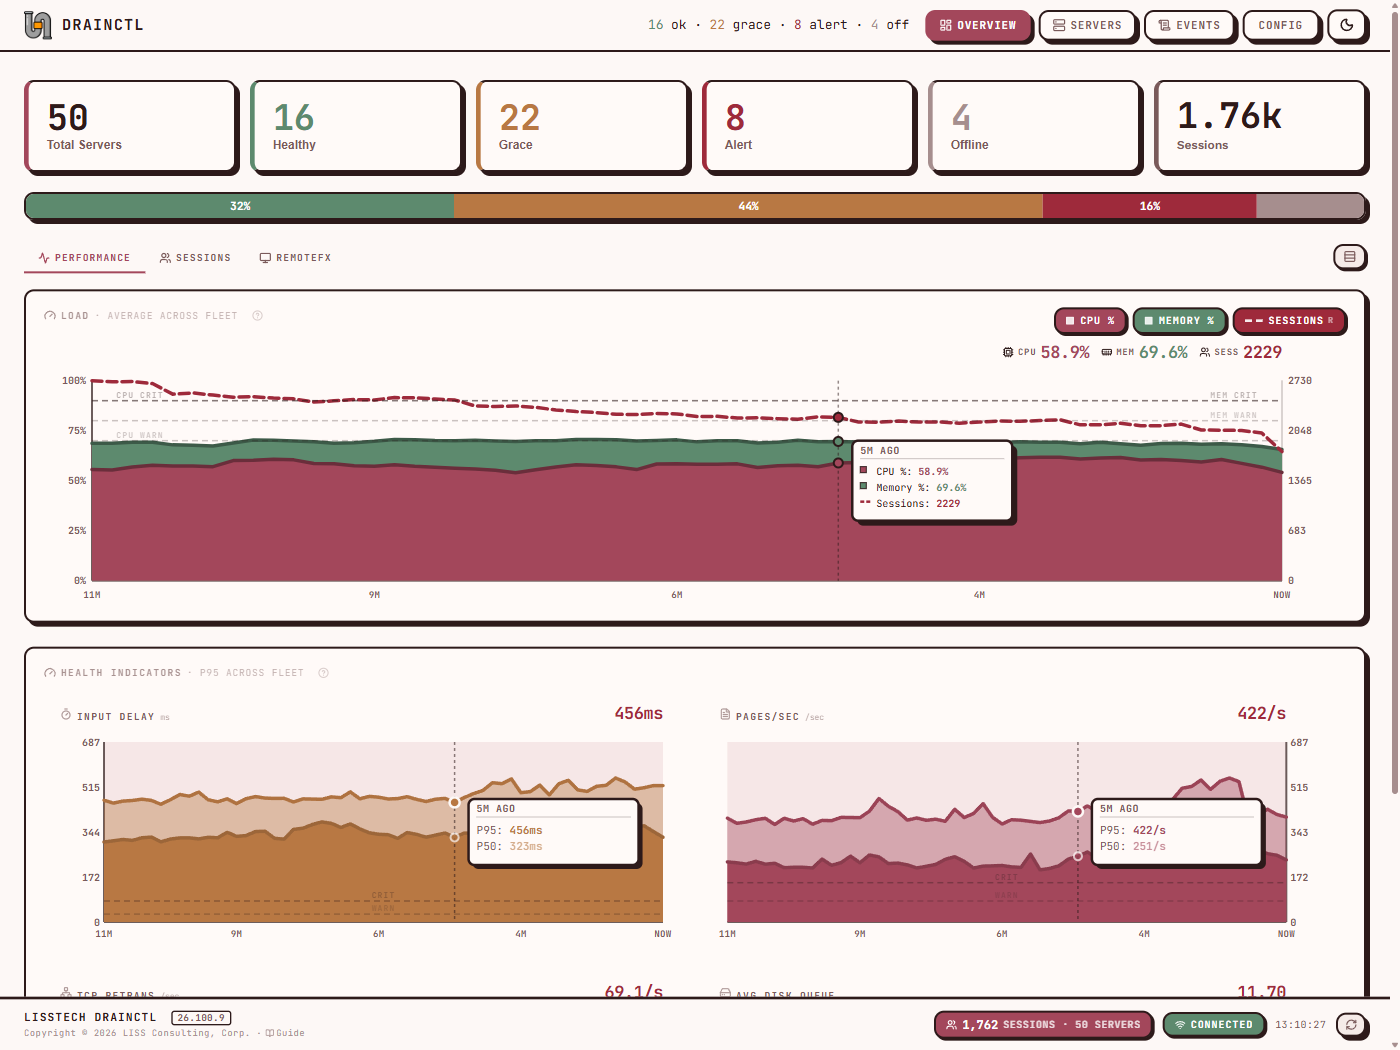
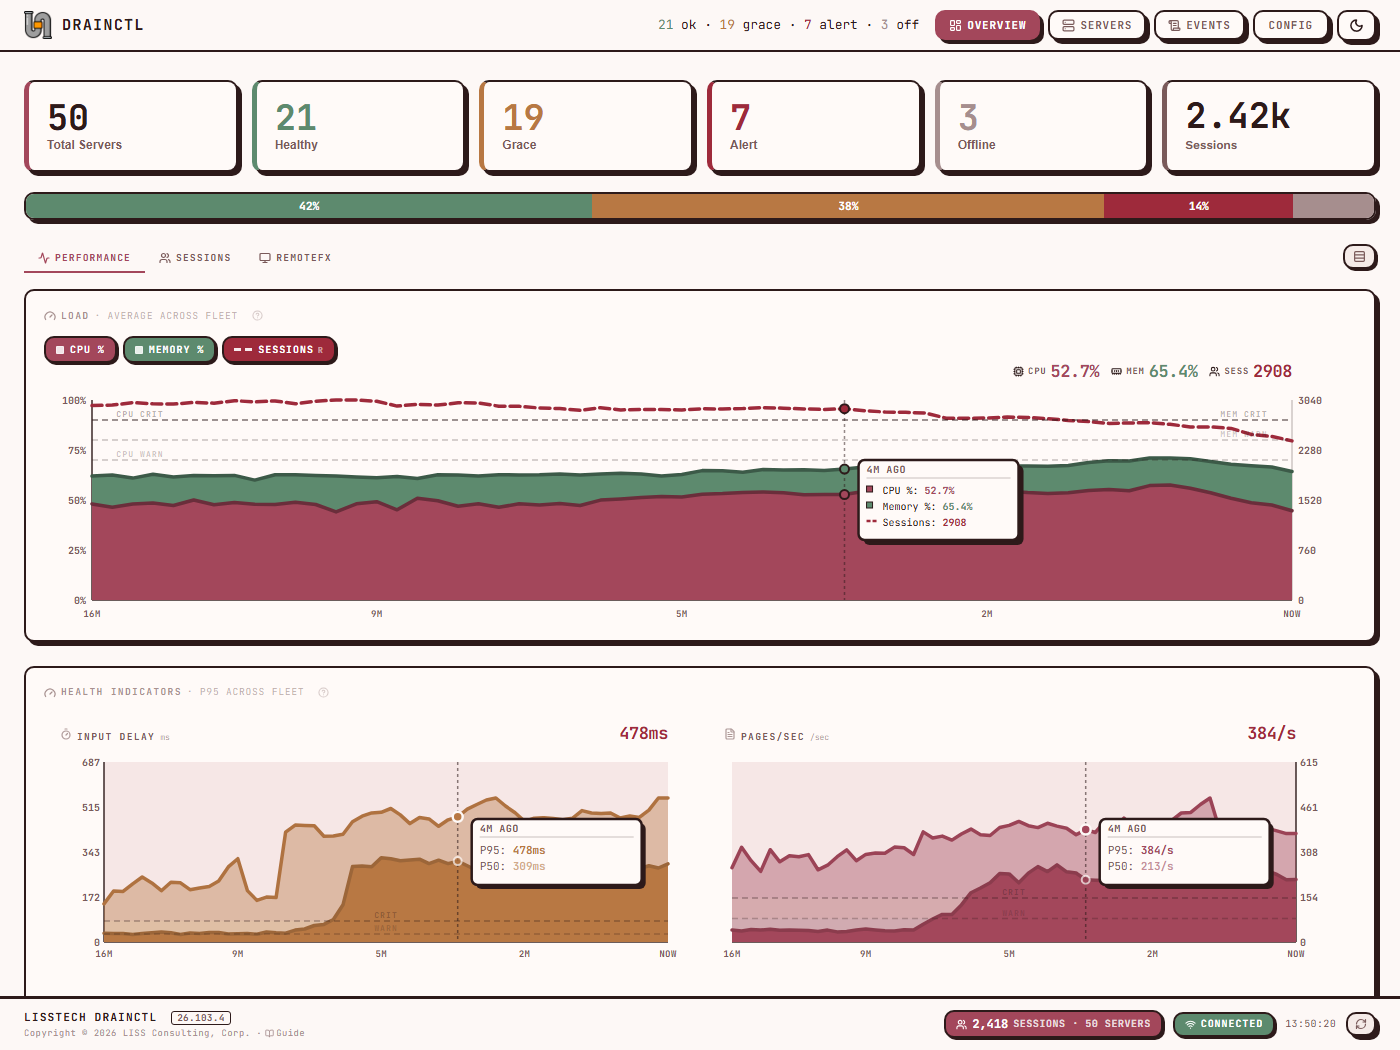
feat(docs): SEO improvements, heading hierarchy, metric button relayout, version bump
SEO (index.html + guide.html):
- Title tags rewritten for target keywords: "Remote Desktop Services monitoring",
  "Managed Service Provider", "MSP", "RDSH"
- Meta descriptions trimmed to <160 chars with keyword-rich copy
- Canonical URLs added to both pages
- robots: index, follow added to both pages
- Open Graph + Twitter Card titles/descriptions aligned with page title
- SoftwareApplication JSON-LD structured data added to index.html
- Section <div class="section-title"> → <h2> for correct h1→h2→h3 hierarchy
- Logo alt text fixed (nav + hero, both files)
- sitemap.xml created

Dashboard:
- Overview metric toggle buttons moved below label/desc (breathing room)
- mock-api.js version bumped 26.100.9 → 26.103.4
- Overview light + dark screenshots retaken with updated layout

diff --git a/docs/index.html b/docs/index.html
@@ -5,22 +5,24 @@
         <meta name="viewport" content="width=device-width, initial-scale=1.0" />
         <link rel="icon" href="favicon.ico" type="image/x-icon" />
         <link rel="apple-touch-icon" href="apple-touch-icon.png" />
-        <title>DrainCtl — Remote Desktop Services Drain Mode & Performance Monitor</title>
+        <title>DrainCtl — Remote Desktop Services Monitoring for MSPs & RDSH Admins</title>
         <meta
             name="description"
-            content="Real-time drain mode monitoring, session tracking, and performance alerting for Windows Remote Desktop Services (RDS/RDSH). Know who disabled connections, track active sessions, monitor CPU and input delay — with a centralized dashboard for your entire farm."
+            content="Remote Desktop Services monitoring for MSPs and RDSH admins. Track drain mode, sessions, CPU, and input delay across your farm — instant detection, change attribution, centralized dashboard."
         />
         <meta
             name="keywords"
-            content="Remote Desktop Services, RDSH, drain mode, session monitor, RDS monitoring, Windows Server, performance monitoring, session host, terminal services"
+            content="Remote Desktop Services monitoring, RDS drain mode, RDSH monitoring, managed service provider RDS, MSP monitoring tool, session host monitor, Windows Server RDS, terminal services monitoring, drain mode alerting"
         />
+        <meta name="robots" content="index, follow" />
+        <link rel="canonical" href="https://lissconsulting.github.io/LISSTech.DrainCtl/" />
 
         <!-- Open Graph -->
         <meta property="og:type" content="website" />
-        <meta property="og:title" content="DrainCtl — Remote Desktop Services Monitor" />
+        <meta property="og:title" content="DrainCtl — Remote Desktop Services Monitoring for MSPs & RDSH Admins" />
         <meta
             property="og:description"
-            content="Real-time drain mode, session, and performance monitoring for your entire RDS farm. Instant detection, change attribution, 12 alert triggers, centralized dashboard."
+            content="Remote Desktop Services monitoring for MSPs and RDSH admins. Track drain mode, sessions, CPU, and input delay — instant detection, change attribution, centralized dashboard."
         />
         <meta property="og:url" content="https://lissconsulting.github.io/LISSTech.DrainCtl/" />
         <meta
@@ -31,15 +33,36 @@
 
         <!-- Twitter Card -->
         <meta name="twitter:card" content="summary_large_image" />
-        <meta name="twitter:title" content="DrainCtl — Remote Desktop Services Monitor" />
+        <meta name="twitter:title" content="DrainCtl — Remote Desktop Services Monitoring for MSPs & RDSH Admins" />
         <meta
             name="twitter:description"
-            content="Real-time drain mode, session, and performance monitoring for your entire RDS farm. One service, one dashboard, instant alerts."
+            content="Remote Desktop Services monitoring for MSPs and RDSH admins. Track drain mode, sessions, CPU, and input delay — instant detection, change attribution, centralized dashboard."
         />
         <meta
             name="twitter:image"
             content="https://lissconsulting.github.io/LISSTech.DrainCtl/dashboard-screenshot.png"
         />
+
+        <!-- Structured Data -->
+        <script type="application/ld+json">
+        {
+            "@context": "https://schema.org",
+            "@type": "SoftwareApplication",
+            "name": "DrainCtl",
+            "applicationCategory": "BusinessApplication",
+            "operatingSystem": "Windows Server",
+            "description": "Remote Desktop Services monitoring for MSPs and RDSH admins. Real-time drain mode detection, session tracking, CPU and input delay alerting — centralized dashboard for your entire farm.",
+            "url": "https://lissconsulting.github.io/LISSTech.DrainCtl/",
+            "screenshot": "https://lissconsulting.github.io/LISSTech.DrainCtl/dashboard-screenshot.png",
+            "offers": { "@type": "Offer", "price": "0", "priceCurrency": "USD" },
+            "publisher": {
+                "@type": "Organization",
+                "name": "LISS Technologies",
+                "legalName": "LISS Consulting, Corp.",
+                "url": "https://lissconsulting.github.io/LISSTech.DrainCtl/"
+            }
+        }
+        </script>
         <link rel="preconnect" href="https://fonts.googleapis.com" />
         <link rel="preconnect" href="https://fonts.gstatic.com" crossorigin />
         <link
@@ -1135,7 +1158,7 @@
                 <a href="#" class="nav-brand"
                     ><img
                         src="logo.png"
-                        alt=""
+                        alt="DrainCtl logo"
                         width="24"
                         height="24"
                         style="vertical-align: middle; margin-right: 6px"
@@ -1167,7 +1190,7 @@
         <!-- Hero -->
         <section class="hero">
             <div class="wrap">
-                <img src="logo.png" alt="" width="72" height="72" style="display: block; margin: 0 auto 12px" />
+                <img src="logo.png" alt="DrainCtl" width="72" height="72" style="display: block; margin: 0 auto 12px" />
                 <h1>Remote Desktop Services<br />monitoring that <em>just works.</em></h1>
                 <p class="hero-sub">
                     DrainCtl watches every session host in your RDS farm. Drain mode changes, active sessions, CPU,
@@ -1246,7 +1269,7 @@
         <section class="section section--bordered" id="why">
             <div class="wrap">
                 <div class="section-label">Why DrainCtl</div>
-                <div class="section-title">PowerShell scripts don't call you at 2&nbsp;AM.</div>
+                <h2 class="section-title">PowerShell scripts don't call you at 2&nbsp;AM.</h2>
                 <div class="section-desc">
                     Every RDSH admin has been there: something's wrong, users are calling, and you're
                     RDP-ing into servers one at a time to find out who put what into drain mode and when.
@@ -1281,7 +1304,7 @@
         <section class="section" id="features">
             <div class="wrap">
                 <div class="section-label">Capabilities</div>
-                <div class="section-title">Complete visibility for your RDS farm.</div>
+                <h2 class="section-title">Complete visibility for your RDS farm.</h2>
                 <div class="section-desc">
                     Drain mode, sessions, CPU, memory, input delay &mdash; one service monitors everything. One
                     dashboard shows it all. Alerts reach you by webhook, ntfy, or email before users notice.
@@ -1370,7 +1393,7 @@
         <section class="section section--shaded" id="quickstart">
             <div class="wrap">
                 <div class="section-label">Quick Start</div>
-                <div class="section-title">From download to monitoring in under&nbsp;3&nbsp;minutes.</div>
+                <h2 class="section-title">From download to monitoring in under&nbsp;3&nbsp;minutes.</h2>
                 <div class="section-desc">Three steps on the dashboard server. Session hosts discover it automatically via DNS SRV &mdash; no per-machine config.</div>
                 <div class="quickstart-steps">
                     <div class="qs-step">
@@ -1408,7 +1431,7 @@
         <section class="section" id="how">
             <div class="wrap">
                 <div class="section-label">Architecture</div>
-                <div class="section-title">Five layers. One service.</div>
+                <h2 class="section-title">Five layers. One service.</h2>
                 <div class="section-desc">
                     The service triangulates registry notifications, event log subscriptions, performance counters, and
                     safety-net polling &mdash; then routes results to the dashboard, notifications, and dual-sink
@@ -1455,7 +1478,7 @@
         <section class="section section--bordered" id="new">
             <div class="wrap">
                 <div class="section-label">Highlights</div>
-                <div class="section-title serif section-title--italic">Built for production RDSH farms.</div>
+                <h2 class="section-title serif section-title--italic">Built for production RDSH farms.</h2>
                 <div class="comic">
                     <!-- Row 1: big hero + tall side panel -->
                     <div class="comic-panel comic-hero">
@@ -1538,7 +1561,7 @@
         <section class="section" id="dashboard">
             <div class="wrap">
                 <div class="section-label">Farm Monitoring</div>
-                <div class="section-title">One dashboard for your entire RDSH farm.</div>
+                <h2 class="section-title">One dashboard for your entire RDSH farm.</h2>
                 <div class="section-desc">
                     See every server's drain state, session count, and alert history on a single page. Configure
                     notifications and thresholds once &mdash; every agent in the farm inherits them. Enable the
@@ -1612,7 +1635,7 @@
         <section class="section" id="usage">
             <div class="wrap">
                 <div class="section-label">Usage Guide</div>
-                <div class="section-title">CLI, PowerShell, or both.</div>
+                <h2 class="section-title">CLI, PowerShell, or both.</h2>
                 <div class="section-desc">
                     Every interface returns the same data. Pick the one that fits your workflow.
                 </div>
@@ -1717,7 +1740,7 @@
         <section class="section section--shaded" id="install">
             <div class="wrap wrap--wide">
                 <div class="section-label">Installation</div>
-                <div class="section-title">Three ways to install. Zero guesswork.</div>
+                <h2 class="section-title">Three ways to install. Zero guesswork.</h2>
                 <div class="section-desc">
                     Full package via MSI (with interactive configuration wizard), silent install for RMM, or just the
                     PowerShell module from PSGallery. <a href="guide.html">Read the full guide &rarr;</a>

diff --git a/frontend/src/components/MetricsChart.svelte b/frontend/src/components/MetricsChart.svelte
@@ -445,49 +445,47 @@
             <div class="chart-wrap">
                 <div class="chart-card">
                     <div class="load-top">
-                        <div class="load-top-left">
-                            <div class="sub-label">
-                                <Gauge size={12} strokeWidth={2.4} /> LOAD
-                                <span class="sub-label-note">· Average across fleet</span>
-                                <button
-                                    class="help-toggle"
-                                    class:active={showLoadHelp}
-                                    onclick={() => (showLoadHelp = !showLoadHelp)}
-                                    aria-label="Toggle help text"
-                                    aria-pressed={showLoadHelp}
-                                >
-                                    <HelpCircle size={11} strokeWidth={2.2} />
-                                </button>
-                            </div>
-                            {#if showLoadHelp}
-                                <p class="chart-desc">
-                                    Fleet-average CPU and memory utilization with total connected sessions. CPU is averaged
-                                    across all cores on all hosts; memory is the percentage of physical RAM in use. The
-                                    Sessions line (right axis) tracks how many users are connected fleet-wide — rising
-                                    sessions with flat CPU/memory means headroom; rising CPU/memory with flat sessions means
-                                    per-user cost is climbing.
-                                </p>
-                            {/if}
+                        <div class="sub-label">
+                            <Gauge size={12} strokeWidth={2.4} /> LOAD
+                            <span class="sub-label-note">· Average across fleet</span>
+                            <button
+                                class="help-toggle"
+                                class:active={showLoadHelp}
+                                onclick={() => (showLoadHelp = !showLoadHelp)}
+                                aria-label="Toggle help text"
+                                aria-pressed={showLoadHelp}
+                            >
+                                <HelpCircle size={11} strokeWidth={2.2} />
+                            </button>
                         </div>
-                        <div class="chart-toggles-stacked">
-                            {#each LOAD_SERIES as s}
-                                <button
-                                    class="chart-toggle"
-                                    class:active={s.show()}
-                                    style="--sc: {s.color}"
-                                    aria-pressed={s.show()}
-                                    onclick={s.toggle}
-                                >
-                                    {#if s.lineOnly}
-                                        <span class="t-dash" aria-hidden="true"></span>
-                                    {:else}
-                                        <span class="t-dot" aria-hidden="true"></span>
-                                    {/if}
-                                    {s.label}
-                                    {#if s.axis === 'right'}<span class="t-axis">R</span>{/if}
-                                </button>
-                            {/each}
-                        </div>
+                        {#if showLoadHelp}
+                            <p class="chart-desc">
+                                Fleet-average CPU and memory utilization with total connected sessions. CPU is averaged
+                                across all cores on all hosts; memory is the percentage of physical RAM in use. The
+                                Sessions line (right axis) tracks how many users are connected fleet-wide — rising
+                                sessions with flat CPU/memory means headroom; rising CPU/memory with flat sessions means
+                                per-user cost is climbing.
+                            </p>
+                        {/if}
+                    </div>
+                    <div class="chart-toggles-stacked">
+                        {#each LOAD_SERIES as s}
+                            <button
+                                class="chart-toggle"
+                                class:active={s.show()}
+                                style="--sc: {s.color}"
+                                aria-pressed={s.show()}
+                                onclick={s.toggle}
+                            >
+                                {#if s.lineOnly}
+                                    <span class="t-dash" aria-hidden="true"></span>
+                                {:else}
+                                    <span class="t-dot" aria-hidden="true"></span>
+                                {/if}
+                                {s.label}
+                                {#if s.axis === 'right'}<span class="t-axis">R</span>{/if}
+                            </button>
+                        {/each}
                     </div>
                     <div class="chart-panel">
                         <div class="load-chart-header">
@@ -780,31 +778,24 @@
         padding: 16px 18px;
     }
 
-    /* ── LOAD top row: desc left, toggles stacked right ── */
+    /* ── LOAD header + toggles stacked vertically ── */
     .load-top {
-        display: flex;
-        gap: 16px;
-        margin-bottom: 10px;
+        margin-bottom: 4px;
     }
 
-    .load-top-left {
-        flex: 1;
-        min-width: 0;
-    }
-
-    .load-top-left .sub-label {
+    .load-top .sub-label {
         margin-bottom: 6px;
     }
 
-    .load-top-left .chart-desc {
+    .load-top .chart-desc {
         margin-bottom: 0;
     }
 
     .chart-toggles-stacked {
         display: flex;
         gap: 6px;
-        flex-shrink: 0;
-        align-self: flex-start;
+        flex-wrap: wrap;
+        margin: 12px 0 0;
     }
 
     /* ── LOAD current values — row above chart, right-aligned ── */

diff --git a/frontend/dev/mock-api.js b/frontend/dev/mock-api.js
@@ -404,7 +404,7 @@ function seedHistory(host, currentStatus) {
       transition,
       transition_from: transition ? prevStatus : undefined,
       changed_by: transition && s !== 'ok' ? pick(ADMINS) : undefined,
-      version: '26.100.9',
+      version: '26.103.4',
       message: transition
         ? `Status changed: ${prevStatus} → ${s}`
         : `Check-in: ${s}`,
@@ -523,7 +523,7 @@ function startEvolution() {
           transition: true,
           transition_from: prev,
           changed_by: s.changedBy,
-          version: '26.100.9',
+          version: '26.103.4',
           message: `Status changed: ${prev} → ${s.status}`,
         });
         // Cap at 100 entries
@@ -560,7 +560,7 @@ function serverView(host) {
     utilization_pct: maxSessions > 0 ? Math.round(sessTotal / maxSessions * 100) : 0,
     state_duration_seconds: stateDurationSeconds,
     state_changed_at: s.stateChangedAt,
-    version: s.status === 'off' ? '' : '26.100.9',
+    version: s.status === 'off' ? '' : '26.103.4',
     registered_at: s.registeredAt,
     last_seen: s.status === 'off' ? isoAgo(10) : isoNow(),
     changed_by: s.changedBy,
@@ -577,7 +577,7 @@ function healthResponse() {
   const servers = allServers();
   const counts = { total: servers.length, ok: 0, grace: 0, alert: 0, off: 0 };
   for (const s of servers) counts[s.status]++;
-  return { version: '26.100.9', servers: counts };
+  return { version: '26.103.4', servers: counts };
 }
 
 // ---------------------------------------------------------------------------

diff --git a/docs/guide.html b/docs/guide.html
@@ -5,11 +5,13 @@
         <meta name="viewport" content="width=device-width, initial-scale=1.0" />
         <link rel="icon" href="favicon.ico" type="image/x-icon" />
         <link rel="apple-touch-icon" href="apple-touch-icon.png" />
-        <title>DrainCtl Guide — Installation, Configuration &amp; Usage</title>
+        <title>DrainCtl Setup Guide — Install, Configure &amp; Monitor RDS for MSPs</title>
         <meta
             name="description"
-            content="Complete guide to installing, configuring, and using LISSTech DrainCtl for RDSH drain mode monitoring."
+            content="Complete setup guide for DrainCtl: install on Windows Server, configure RDSH drain mode monitoring, set up alerts for MSPs and admins, and use the CLI and dashboard."
         />
+        <meta name="robots" content="index, follow" />
+        <link rel="canonical" href="https://lissconsulting.github.io/LISSTech.DrainCtl/guide.html" />
         <link rel="preconnect" href="https://fonts.googleapis.com" />
         <link rel="preconnect" href="https://fonts.gstatic.com" crossorigin />
         <link
